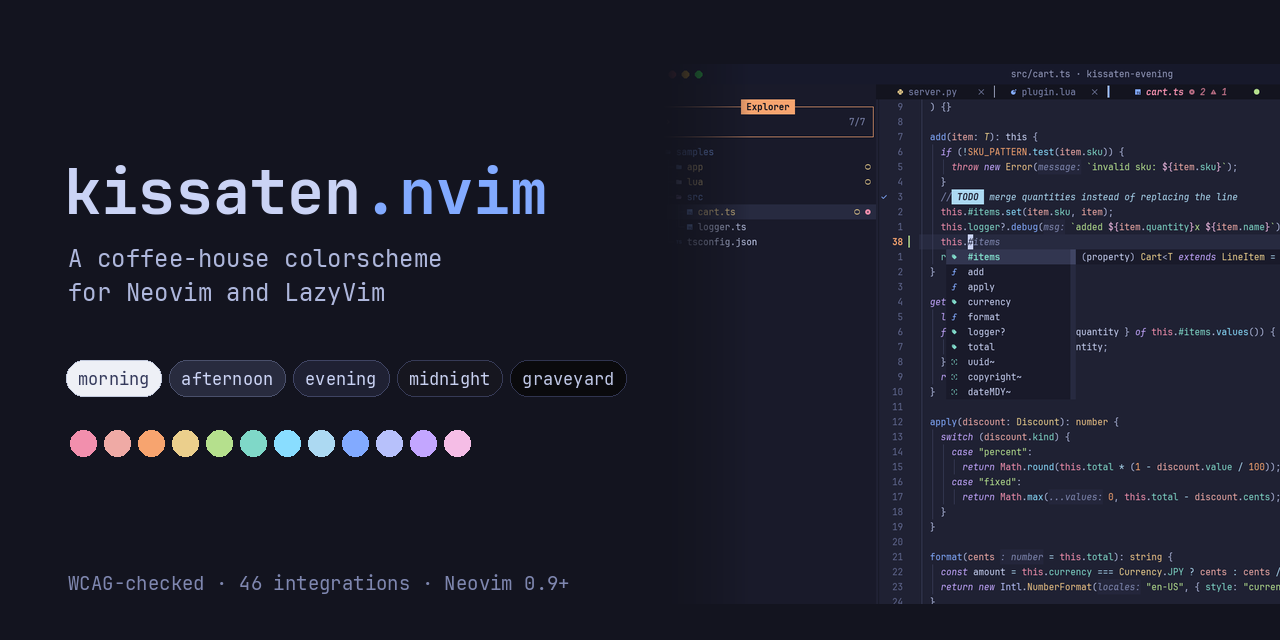
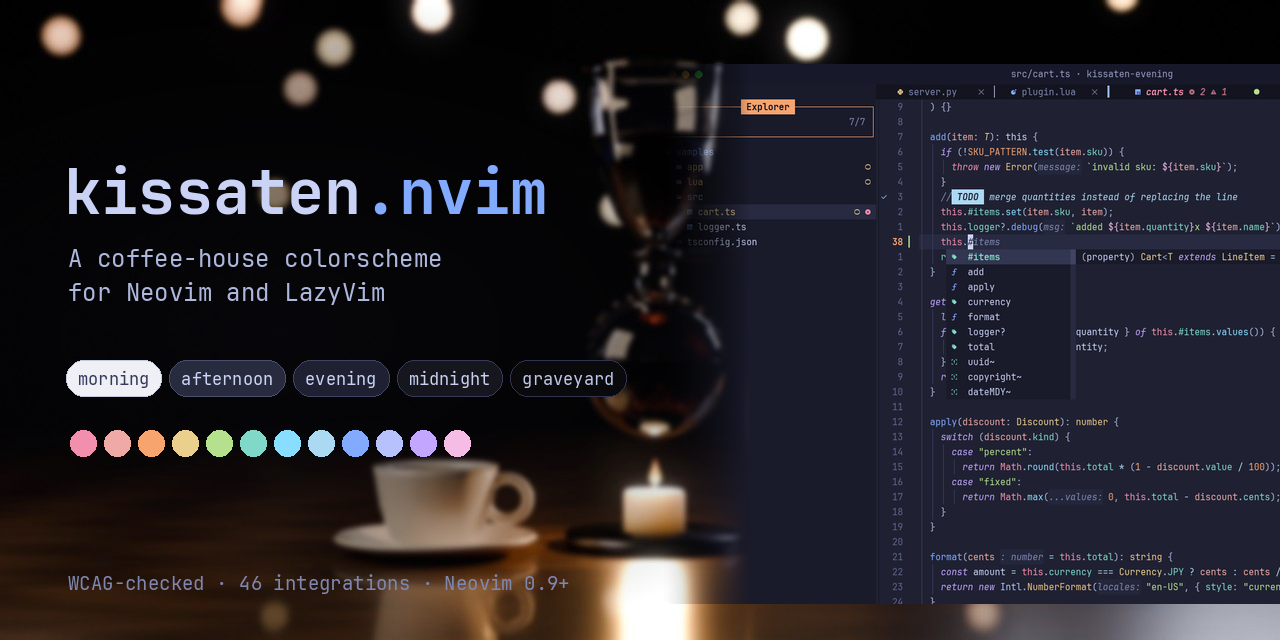
feat(social-preview): update image (AH-2026102531614)
Refs: AH-2026102531614

diff --git a/scripts/social_scene.py b/scripts/social_scene.py
@@ -1,0 +1,360 @@
+# Photoreal kissaten still life for the social preview, rendered with Cycles:
+# a glass coffee siphon over a candle, a ceramic cup of coffee on a saucer,
+# a walnut counter, and warm café lights far behind (blurred by depth of field).
+# Everything is made up.
+#
+# Run with Blender's Python module (pip install bpy, Python 3.11):
+#   python scripts/social_scene.py render.png 1280 128
+# then add a light bloom and a 2.5px Gaussian blur and save the result as
+# assets/src/social-background.jpg; scripts/make_assets.py draws the text on top.
+import math
+import sys
+
+import bpy  # noqa: I001 (bmesh needs bpy loaded first)
+import bmesh
+from mathutils import Vector
+
+out = sys.argv[1] if len(sys.argv) > 1 else "render.png"
+width = int(sys.argv[2]) if len(sys.argv) > 2 else 640
+samples = int(sys.argv[3]) if len(sys.argv) > 3 else 32
+
+bpy.ops.wm.read_factory_settings(use_empty=True)
+scene = bpy.context.scene
+
+# ── helpers ─────────────────────────────────────────────────────────────
+def mat(name, color=(0.8, 0.8, 0.8), rough=0.4, metal=0.0, transmission=0.0, ior=1.45, coat=0.0,
+        sss=0.0, sss_radius=(1, 0.5, 0.25), emission=None, strength=0.0, alpha=1.0):
+    m = bpy.data.materials.new(name)
+    m.use_nodes = True
+    b = m.node_tree.nodes["Principled BSDF"]
+    b.inputs["Base Color"].default_value = (*color, 1)
+    b.inputs["Roughness"].default_value = rough
+    b.inputs["Metallic"].default_value = metal
+    b.inputs["Transmission Weight"].default_value = transmission
+    b.inputs["IOR"].default_value = ior
+    b.inputs["Coat Weight"].default_value = coat
+    b.inputs["Subsurface Weight"].default_value = sss
+    b.inputs["Subsurface Radius"].default_value = sss_radius
+    if emission:
+        b.inputs["Emission Color"].default_value = (*emission, 1)
+        b.inputs["Emission Strength"].default_value = strength
+    return m
+
+
+def link(obj, m):
+    obj.data.materials.clear()
+    obj.data.materials.append(m)
+    return obj
+
+
+def smooth(obj, subdiv=0):
+    for p in obj.data.polygons:
+        p.use_smooth = True
+    if subdiv:
+        mod = obj.modifiers.new("sub", "SUBSURF")
+        mod.levels = mod.render_levels = subdiv
+    return obj
+
+
+def lathe(name, profile, steps=96, thickness=0.0, close_bottom=False, flip=False):
+    """Revolve a list of (radius, z) points around Z."""
+    me = bpy.data.meshes.new(name)
+    bm = bmesh.new()
+    verts = [bm.verts.new((r, 0, z)) for r, z in profile]
+    for a, b in zip(verts, verts[1:]):
+        bm.edges.new((a, b))
+    bm.to_mesh(me)
+    bm.free()
+    obj = bpy.data.objects.new(name, me)
+    scene.collection.objects.link(obj)
+    scr = obj.modifiers.new("lathe", "SCREW")
+    scr.steps = scr.render_steps = steps
+    scr.use_merge_vertices = True
+    scr.use_smooth_shade = True
+    scr.use_normal_flip = flip
+    if thickness:
+        sol = obj.modifiers.new("shell", "SOLIDIFY")
+        sol.thickness = thickness
+        sol.offset = -1
+    return obj
+
+
+def cyl(name, r, h, loc, verts=64):
+    bpy.ops.mesh.primitive_cylinder_add(radius=r, depth=h, location=loc, vertices=verts)
+    o = bpy.context.object
+    o.name = name
+    return smooth(o)
+
+
+def sphere(name, r, loc, seg=96, rings=48):
+    bpy.ops.mesh.primitive_uv_sphere_add(radius=r, location=loc, segments=seg, ring_count=rings)
+    o = bpy.context.object
+    o.name = name
+    return smooth(o)
+
+
+def cut_below(obj, z_world, fill=True):
+    """Keep only the part of a mesh below z (a liquid level), capping the top."""
+    me = obj.data
+    bm = bmesh.new()
+    bm.from_mesh(me)
+    local_z = z_world - obj.location.z
+    geom = bm.verts[:] + bm.edges[:] + bm.faces[:]
+    res = bmesh.ops.bisect_plane(bm, geom=geom, plane_co=(0, 0, local_z), plane_no=(0, 0, 1), clear_outer=True)
+    if fill:
+        edges = [e for e in res["geom_cut"] if isinstance(e, bmesh.types.BMEdge)]
+        bmesh.ops.holes_fill(bm, edges=edges)
+    bm.to_mesh(me)
+    bm.free()
+    return obj
+
+
+# ── materials ───────────────────────────────────────────────────────────
+glass = mat("glass", (1, 1, 1), rough=0.0, transmission=1.0, ior=1.47)
+coffee = mat("coffee", (1, 1, 1), rough=0.02, transmission=1.0, ior=1.34)
+_cn = coffee.node_tree
+_abs = _cn.nodes.new("ShaderNodeVolumeAbsorption")
+_abs.inputs["Color"].default_value = (0.62, 0.30, 0.10, 1)
+_abs.inputs["Density"].default_value = 70
+_cn.links.new(_abs.outputs["Volume"], _cn.nodes["Material Output"].inputs["Volume"])
+crema = mat("crema", (0.32, 0.17, 0.08), rough=0.35)
+metal = mat("metal", (0.10, 0.10, 0.11), rough=0.28, metal=1.0)
+brass = mat("brass", (0.55, 0.42, 0.22), rough=0.3, metal=1.0)
+ceramic = mat("ceramic", (0.86, 0.83, 0.78), rough=0.12, coat=0.6)
+wax = mat("wax", (0.95, 0.84, 0.66), rough=0.35, sss=1.0, sss_radius=(0.012, 0.006, 0.003))
+_wn = wax.node_tree
+_wb = _wn.nodes["Principled BSDF"]
+_wtc = _wn.nodes.new("ShaderNodeTexCoord")
+_wsep = _wn.nodes.new("ShaderNodeSeparateXYZ")
+_wr = _wn.nodes.new("ShaderNodeValToRGB")
+_wr.color_ramp.elements[0].position, _wr.color_ramp.elements[0].color = 0.0, (0.10, 0.04, 0.012, 1)
+_wr.color_ramp.elements[1].position, _wr.color_ramp.elements[1].color = 1.0, (1.0, 0.45, 0.12, 1)
+_wn.links.new(_wtc.outputs["Generated"], _wsep.inputs["Vector"])
+_wn.links.new(_wsep.outputs["Z"], _wr.inputs["Fac"])
+_wn.links.new(_wr.outputs["Color"], _wb.inputs["Emission Color"])
+_wb.inputs["Emission Strength"].default_value = 1.2
+wick = mat("wick", (0.012, 0.009, 0.007), rough=0.9)
+
+# wood: dark walnut grain from a stretched wave texture
+wood = bpy.data.materials.new("wood")
+wood.use_nodes = True
+nt = wood.node_tree
+bsdf = nt.nodes["Principled BSDF"]
+wave = nt.nodes.new("ShaderNodeTexWave")
+wave.wave_type = "BANDS"
+wave.inputs["Scale"].default_value = 6
+wave.inputs["Distortion"].default_value = 8
+wave.inputs["Detail"].default_value = 6
+mapn = nt.nodes.new("ShaderNodeMapping")
+mapn.inputs["Scale"].default_value = (1, 12, 1)
+coord = nt.nodes.new("ShaderNodeTexCoord")
+nt.links.new(coord.outputs["Object"], mapn.inputs["Vector"])
+nt.links.new(mapn.outputs["Vector"], wave.inputs["Vector"])
+ramp = nt.nodes.new("ShaderNodeValToRGB")
+ramp.color_ramp.elements[0].color = (0.035, 0.018, 0.010, 1)
+ramp.color_ramp.elements[1].color = (0.11, 0.055, 0.03, 1)
+nt.links.new(wave.outputs["Fac"], ramp.inputs["Fac"])
+nt.links.new(ramp.outputs["Color"], bsdf.inputs["Base Color"])
+bsdf.inputs["Roughness"].default_value = 0.32
+bsdf.inputs["Coat Weight"].default_value = 0.35
+
+# flame: emission graded from blue at the base to white-yellow to orange tip
+flame = bpy.data.materials.new("flame")
+flame.use_nodes = True
+fn = flame.node_tree
+fn.nodes.clear()
+fo = fn.nodes.new("ShaderNodeOutputMaterial")
+em = fn.nodes.new("ShaderNodeEmission")
+tr = fn.nodes.new("ShaderNodeBsdfTransparent")
+mix = fn.nodes.new("ShaderNodeMixShader")
+tc = fn.nodes.new("ShaderNodeTexCoord")
+sep = fn.nodes.new("ShaderNodeSeparateXYZ")
+fr = fn.nodes.new("ShaderNodeValToRGB")
+fn.links.new(tc.outputs["Generated"], sep.inputs["Vector"])
+fn.links.new(sep.outputs["Z"], fr.inputs["Fac"])
+els = fr.color_ramp.elements
+els[0].position, els[0].color = 0.0, (0.05, 0.12, 0.8, 1)
+els[1].position, els[1].color = 1.0, (0.9, 0.12, 0.01, 1)
+for pos, col in [(0.07, (1.0, 0.85, 0.5, 1)), (0.22, (1.0, 0.62, 0.15, 1)), (0.5, (1.0, 0.38, 0.04, 1))]:
+    e = els.new(pos)
+    e.color = col
+fn.links.new(fr.outputs["Color"], em.inputs["Color"])
+em.inputs["Strength"].default_value = 2.2
+# soft edges: facing ratio fades the rim to transparent
+lw = fn.nodes.new("ShaderNodeLayerWeight")
+lw.inputs["Blend"].default_value = 0.35
+fn.links.new(lw.outputs["Facing"], mix.inputs["Fac"])
+fn.links.new(em.outputs["Emission"], mix.inputs[1])
+fn.links.new(tr.outputs["BSDF"], mix.inputs[2])
+fn.links.new(mix.outputs["Shader"], fo.inputs["Surface"])
+
+# ── counter and wall ────────────────────────────────────────────────────
+bpy.ops.mesh.primitive_plane_add(size=1, location=(0, 0.5, 0))
+counter = bpy.context.object
+counter.scale = (4, 2.2, 1)
+link(counter, wood)
+
+wallm = mat("wall", (0.03, 0.032, 0.06), rough=0.9)
+bpy.ops.mesh.primitive_plane_add(size=1, location=(0, 3.2, 1.0), rotation=(math.radians(90), 0, 0))
+wall = bpy.context.object
+wall.scale = (8, 4, 1)
+link(wall, wallm)
+
+# ── siphon ──────────────────────────────────────────────────────────────
+SX, SY = 0.05, 0.0  # siphon axis on the counter
+# stand: base plate, rod, arm with a clamp ring
+link(cyl("base", 0.075, 0.012, (SX, SY, 0.006)), metal)
+link(cyl("rod", 0.006, 0.33, (SX + 0.085, SY + 0.01, 0.17)), metal)
+link(cyl("arm", 0.005, 0.085, (SX + 0.043, SY + 0.01, 0.245)), metal).rotation_euler = (0, math.radians(90), 0)
+bpy.ops.mesh.primitive_torus_add(major_radius=0.02, minor_radius=0.003, location=(SX, SY, 0.245))
+link(smooth(bpy.context.object), metal)
+
+# candle (heat source) under the flask
+candle = lathe("candle", [(0.0, 0.012), (0.026, 0.012), (0.026, 0.044), (0.024, 0.0465), (0.016, 0.045),
+                          (0.004, 0.0425), (0.0, 0.0425)])
+candle.location = (SX, SY, 0)
+link(candle, wax)
+wk = cyl("wick", 0.0011, 0.011, (SX, SY, 0.047), verts=12)
+wk.rotation_euler = (0, math.radians(6), 0)
+link(wk, wick)
+# teardrop flame: a revolved profile, round at the base and pointed at the tip
+bpy.ops.mesh.primitive_uv_sphere_add(radius=0.0052, location=(SX + 0.0006, SY, 0.0565), segments=48, ring_count=32)
+fl = smooth(bpy.context.object)
+fl.name = "flame"
+for v in fl.data.vertices:
+    t = v.co.z / 0.0052  # -1 (bottom) .. 1 (top)
+    if t > 0:
+        # stretch the upper half and narrow it to a point
+        v.co.x *= 1 - 0.85 * t ** 1.4
+        v.co.y *= 1 - 0.85 * t ** 1.4
+        v.co.z *= 3.2
+link(fl, flame)
+bpy.ops.object.light_add(type="POINT", location=(SX, SY, 0.062))
+candle_light = bpy.context.object
+candle_light.data.energy = 9
+candle_light.data.color = (1.0, 0.5, 0.18)
+candle_light.data.shadow_soft_size = 0.006
+
+# lower flask: glass sphere with neck, coffee inside
+FZ = 0.152
+link(sphere("flask", 0.062, (SX, SY, FZ)), glass).modifiers.new("shell", "SOLIDIFY").thickness = 0.0025
+link(cyl("neck", 0.017, 0.045, (SX, SY, FZ + 0.075)), glass).modifiers.new("shell", "SOLIDIFY").thickness = 0.002
+liq = cut_below(sphere("coffee_low", 0.0585, (SX, SY, FZ)), FZ + 0.005)
+link(liq, coffee)
+
+# upper bowl: revolved profile with a tube down into the flask
+bowl = lathe(
+    "bowl",
+    [(0.006, FZ - 0.03), (0.007, FZ + 0.09), (0.012, FZ + 0.105), (0.03, FZ + 0.125), (0.047, FZ + 0.165),
+     (0.054, FZ + 0.215), (0.055, FZ + 0.245), (0.058, FZ + 0.25)],
+    thickness=0.002,
+)
+bowl.location = (SX, SY, 0)
+link(bowl, glass)
+up = lathe("coffee_up", [(0.0, FZ + 0.106), (0.011, FZ + 0.107), (0.029, FZ + 0.127), (0.046, FZ + 0.167),
+                         (0.0505, FZ + 0.19), (0.0, FZ + 0.19)])
+up.location = (SX, SY, 0)
+link(up, coffee)
+foam = cyl("foam", 0.0505, 0.004, (SX, SY, FZ + 0.191))
+link(foam, crema)
+
+# ── cup on a saucer ─────────────────────────────────────────────────────
+CX, CY = -0.13, -0.05
+saucer = lathe("saucer", [(0.0, 0.002), (0.045, 0.002), (0.062, 0.006), (0.078, 0.014), (0.08, 0.016)], thickness=0.004)
+saucer.location = (CX, CY, 0)
+link(saucer, ceramic)
+cup = lathe("cup", [(0.0, 0.012), (0.028, 0.012), (0.034, 0.016), (0.042, 0.04), (0.046, 0.065), (0.047, 0.072)],
+            thickness=0.004)
+cup.location = (CX, CY, 0)
+link(cup, ceramic)
+surface = cyl("coffee_cup", 0.0425, 0.003, (CX, CY, 0.064))
+link(surface, crema)
+bpy.ops.mesh.primitive_torus_add(major_radius=0.017, minor_radius=0.0045, location=(CX + 0.058, CY, 0.044),
+                                 rotation=(math.radians(90), 0, 0), major_segments=64, minor_segments=24)
+link(smooth(bpy.context.object), ceramic)
+
+# ── background: café lights, far enough to melt into bokeh ──────────────
+import random
+
+rnd = random.Random(5)
+palette = [(1.0, 0.55, 0.22), (1.0, 0.68, 0.32), (1.0, 0.48, 0.25), (0.95, 0.60, 0.40), (0.62, 0.58, 1.0), (1.0, 0.75, 0.45)]
+for i in range(30):
+    x = rnd.uniform(-1.9, 1.9)
+    y = rnd.uniform(2.2, 3.0)
+    z = rnd.uniform(0.3, 1.25)
+    bpy.ops.mesh.primitive_uv_sphere_add(radius=rnd.uniform(0.01, 0.022), location=(x, y, z), segments=16, ring_count=8)
+    b = bpy.context.object
+    c = rnd.choice(palette)
+    # dimmer on the left, where the title sits
+    k = 0.45 if x < -0.6 else 1.0
+    link(b, mat(f"bulb{i}", c, emission=c, strength=rnd.uniform(5, 14) * k))
+# a warm pendant glow above, out of frame, and a soft window light from the left
+bpy.ops.object.light_add(type="AREA", location=(-0.7, -0.3, 0.6))
+key = bpy.context.object
+key.data.energy = 6
+key.data.size = 0.6
+key.data.color = (1.0, 0.78, 0.55)
+key.rotation_euler = (math.radians(70), 0, math.radians(-60))
+bpy.ops.object.light_add(type="AREA", location=(0.8, 0.6, 0.5))
+rim = bpy.context.object
+rim.data.energy = 4
+rim.data.size = 0.3
+rim.data.color = (0.75, 0.78, 1.0)
+rim.rotation_euler = (math.radians(70), 0, math.radians(125))
+
+def softbox(name, loc, rot, size, color, strength):
+    bpy.ops.mesh.primitive_plane_add(size=1, location=loc, rotation=rot)
+    o = bpy.context.object
+    o.name = name
+    o.scale = size
+    link(o, mat(name, color, emission=color, strength=strength))
+    o.visible_camera = False  # only reflections and light, never seen directly
+    return o
+
+
+softbox("box_left", (-0.45, -0.1, 0.42), (0, math.radians(90), math.radians(-30)), (0.4, 0.06, 1), (1.0, 0.82, 0.62), 6)
+softbox("box_right", (0.45, 0.35, 0.45), (0, math.radians(90), math.radians(35)), (0.4, 0.05, 1), (0.75, 0.8, 1.0), 5)
+softbox("box_top", (0.05, 0.1, 0.75), (0, 0, 0), (0.25, 0.25, 1), (1.0, 0.85, 0.7), 1.5)
+
+world = bpy.data.worlds.new("w")
+world.use_nodes = True
+world.node_tree.nodes["Background"].inputs["Color"].default_value = (0.008, 0.009, 0.02, 1)
+scene.world = world
+
+# ── camera: 50 mm, eye level with the counter, shallow focus on the siphon ─
+bpy.ops.object.camera_add(location=(0, -1.5, 0.19), rotation=(math.radians(90), 0, 0))
+cam = bpy.context.object
+cam.data.lens = 50
+cam.data.shift_x = 0.035
+cam.data.dof.use_dof = True
+cam.data.dof.focus_distance = 1.5
+cam.data.dof.aperture_fstop = 1.4
+scene.camera = cam
+
+# ── render ──────────────────────────────────────────────────────────────
+scene.render.engine = "CYCLES"
+scene.cycles.device = "CPU"
+scene.cycles.samples = samples
+scene.cycles.use_denoising = True
+scene.cycles.max_bounces = 12
+scene.cycles.transmission_bounces = 12
+scene.cycles.transparent_max_bounces = 12
+scene.cycles.caustics_reflective = False
+scene.cycles.caustics_refractive = False
+scene.cycles.blur_glossy = 1.0
+scene.render.resolution_x = width
+scene.render.resolution_y = width // 2
+scene.render.resolution_percentage = 100
+scene.view_settings.view_transform = "AgX"
+scene.view_settings.look = "AgX - Medium High Contrast"
+scene.view_settings.exposure = 0.0
+import os
+if os.environ.get("BORDER"):
+    x0, x1, y0, y1 = map(float, os.environ["BORDER"].split(","))
+    scene.render.use_border = True
+    scene.render.use_crop_to_border = True
+    scene.render.border_min_x, scene.render.border_max_x = x0, x1
+    scene.render.border_min_y, scene.render.border_max_y = y0, y1
+scene.render.filepath = out
+bpy.ops.render.render(write_still=True)
+print("wrote", out)

diff --git a/scripts/make_assets.py b/scripts/make_assets.py
@@ -7,7 +7,9 @@ Produces:
   assets/screenshots/*.png     copies of the framed screenshots
   assets/styles.png            grid of every style (rows of 3, last row centered)
   assets/palette.png           swatch sheet generated from lua/kissaten/palettes
-  assets/social-preview.png    1280x640 GitHub social preview (< 1 MB)
+  assets/social-preview.png    1280x640 GitHub social preview (< 1 MB), drawn over
+                               assets/src/social-background.jpg (rendered by
+                               scripts/social_scene.py in Blender, then softened)
   assets/colorblind.png        default vs `colorblind`, as each deficiency sees them
 """
 import argparse
@@ -107,6 +109,17 @@ def social_preview(shots, font, out):
     W, H = 1280, 640
     p = palette("evening")
     img = Image.new("RGB", (W, H), rgb(p["crust"]))
+    bg = os.path.join(ROOT, "assets", "src", "social-background.jpg")
+    if os.path.exists(bg):
+        # siphon, cup and candle on a counter; darken behind the text with a
+        # soft elliptical scrim so the title stays readable
+        import numpy as np
+
+        img = Image.open(bg).convert("RGB").resize((W, H), Image.LANCZOS)
+        yy, xx = np.mgrid[0:H, 0:W]
+        r = np.sqrt(((xx - 280) / 600) ** 2 + ((yy - 330) / 340) ** 2)
+        a = (np.clip(1 - r, 0, 1) * 0.62 * 255).astype("uint8")
+        img.paste(Image.new("RGB", (W, H), (10, 10, 16)), (0, 0), Image.fromarray(a, "L"))
     d = ImageDraw.Draw(img)
 
     # right: real screenshot crop with a soft left edge

diff --git a/README.md b/README.md
@@ -870,6 +870,9 @@ stylua lua plugin colors tests scripts/build_extras.lua
 python3 scripts/screenshot.py --scenario my_scenario.lua --out shots --frame
 python3 scripts/make_assets.py --shots shots
 
+# social preview background: a made-up siphon still life rendered in Blender (pip install bpy)
+python3 scripts/social_scene.py render.png 1280 128
+
 # every computed color (palette, roles, UI, diff) as JSON, e.g. for porting
 nvim --headless -u NONE -i NONE -l scripts/export_colors.lua > colors.json
 ```
